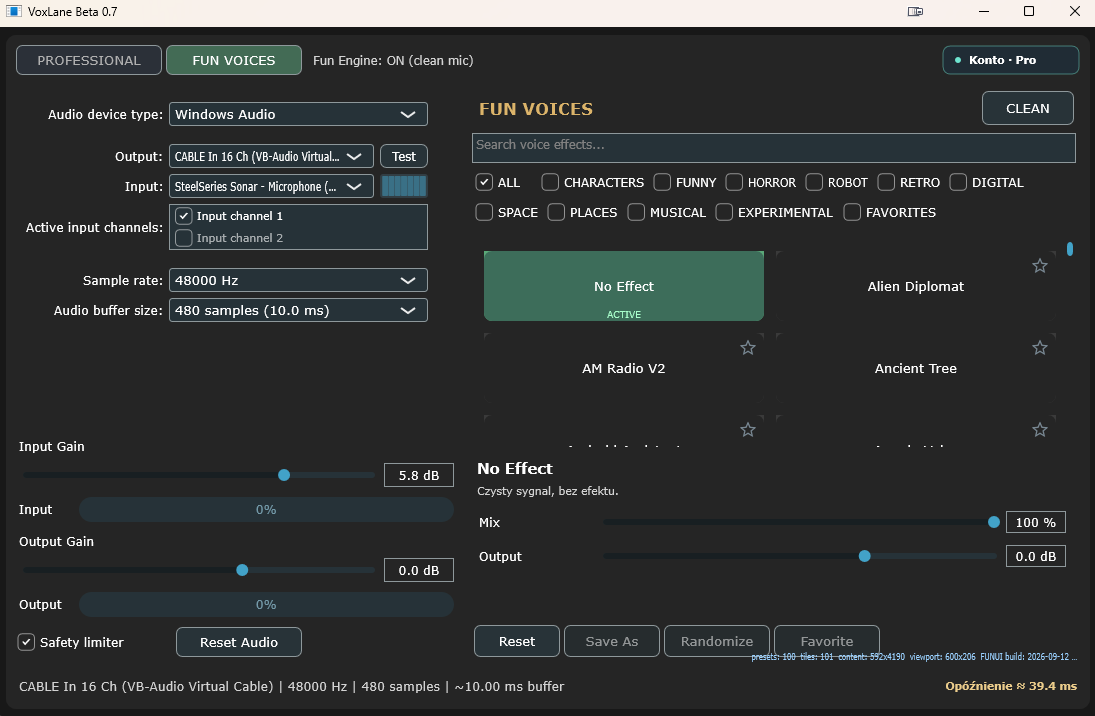
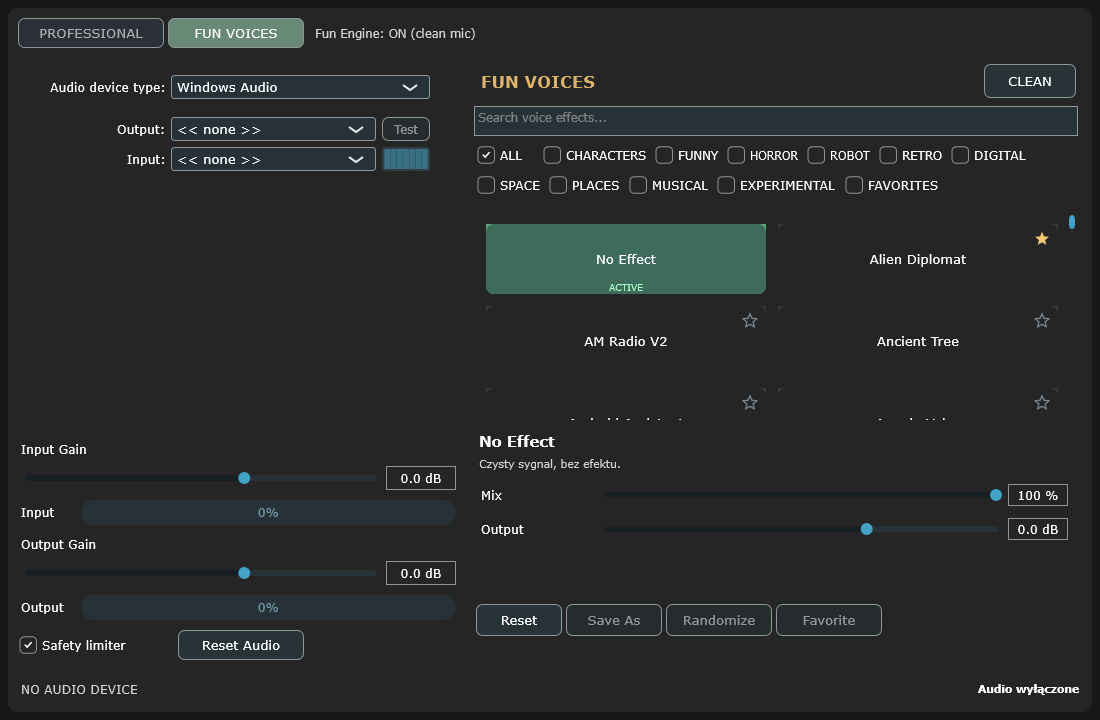
Make full offline VoxLane 0.7 the main download

diff --git a/docs/index.html b/docs/index.html
@@ -1,6 +1,6 @@
 <!doctype html>
-<html lang="en"><head><meta charset="utf-8"><meta name="viewport" content="width=device-width,initial-scale=1"><title>VoxLane</title><link rel="stylesheet" href="account/style.css"></head>
-<body><main><small>VOXLANE / BETA 0.7</small><h1 id="title">Your voice. Your sound.</h1><p id="intro">Real-time microphone processing for Windows. VST3 plugins, built-in processors and 100 Fun Voices.</p><p id="routing">Use a virtual audio cable to send your sound to Discord, OBS and games.</p><p id="price">Pro · PLN 25 once. Real payments via Stripe.</p><p><a id="account" href="account/">VoxLane account</a></p><p><a id="github" href="https://github.com/Reekksio/VST-MIC-HOST-VoxLane-/releases/tag/v0.7">Downloads and documentation</a></p><footer>VoxLane Beta 0.7</footer></main><script>
-const lang=navigator.language.toLowerCase().startsWith('pl')?'pl':'en';document.documentElement.lang=lang;document.querySelector('#account').href='account/?lang='+lang;
-if(lang==='pl'){for(const [id,value]of Object.entries({title:'Twój głos. Twoje brzmienie.',intro:'Przetwarzanie mikrofonu na żywo w Windows. Wtyczki VST3, wbudowane procesory i 100 Fun Voices.',routing:'Przekaż dźwięk przez wirtualny kabel do Discorda, OBS i gier.',price:'Pro · 25 zł jednorazowo. Prawdziwe płatności przez Stripe.',account:'Konto VoxLane',github:'Pobieranie i dokumentacja'}))document.getElementById(id).textContent=value;}
+<html lang="en"><head><meta charset="utf-8"><meta name="viewport" content="width=device-width,initial-scale=1"><title>VoxLane — microphone processing for Windows</title><link rel="stylesheet" href="account/style.css"></head>
+<body><main><small>VOXLANE / BETA 0.7</small><h1 id="title">Your voice. Your sound.</h1><p id="intro">Real-time microphone processing for Windows. VST3 plugins, 28 built-in processors and 100 Fun Voices.</p><p id="access">All audio features included. No account, payment or activation required.</p><p id="routing">Use a virtual audio cable to send your sound to Discord, OBS and games.</p><p><a id="download" href="https://github.com/Reekksio/VST-MIC-HOST-VoxLane-/releases/download/v0.7.0/VoxLane-Beta-0.7.zip">Download VoxLane Beta 0.7</a></p><p><a id="github" href="https://github.com/Reekksio/VST-MIC-HOST-VoxLane-/releases/latest">Release notes and documentation</a></p><details><summary id="showcase">Account & Payments Showcase</summary><p id="demo">An archived integration build demonstrating authentication, persistent sessions and Stripe Checkout.</p><a id="demo-link" href="https://github.com/Reekksio/VST-MIC-HOST-VoxLane-/releases/tag/v0.7">View showcase edition</a></details><footer>VoxLane Beta 0.7</footer></main><script>
+const lang=navigator.language.toLowerCase().startsWith('pl')?'pl':'en';document.documentElement.lang=lang;
+if(lang==='pl'){for(const [id,value]of Object.entries({title:'Twój głos. Twoje brzmienie.',intro:'Przetwarzanie mikrofonu na żywo w Windows. Wtyczki VST3, 28 wbudowanych procesorów i 100 Fun Voices.',access:'Wszystkie funkcje audio w zestawie. Bez konta, płatności i aktywacji.',routing:'Przekaż dźwięk przez wirtualny kabel do Discorda, OBS i gier.',download:'Pobierz VoxLane Beta 0.7',github:'Opis wydania i dokumentacja',showcase:'Prezentacja integracji kont i płatności',demo:'Archiwalna wersja prezentująca logowanie, zapamiętywanie sesji i integrację Stripe Checkout.','demo-link':'Zobacz wersję demonstracyjną'}))document.getElementById(id).textContent=value;}
 </script></body></html>

diff --git a/README.md b/README.md
@@ -1,28 +1,16 @@
 # VoxLane — Beta 0.7
 
-VoxLane is a portable real-time VST3 microphone host and audio processor for Windows, built with C++ and JUCE.
-
-Process your microphone with external VST3 plugins, VoxLane's built-in processors or 100 Fun Voices, then send it to your chosen output or a virtual audio cable.
+VoxLane is a portable real-time microphone processor for Windows, built with C++ and JUCE. Use external VST3 plugins, built-in VoxLane processors or Fun Voices, then send your sound to an audio output, Discord, OBS or games through a virtual audio cable.
 
 ## Download
 
-[Download VoxLane Beta 0.7](https://github.com/Reekksio/VST-MIC-HOST-VoxLane-/releases/download/v0.7/VoxLane-Beta-0.7.zip) · [Release notes](https://github.com/Reekksio/VST-MIC-HOST-VoxLane-/releases/tag/v0.7)
+**[Download VoxLane Beta 0.7](https://github.com/Reekksio/VST-MIC-HOST-VoxLane-/releases/download/v0.7.0/VoxLane-Beta-0.7.zip)** · [Release notes](https://github.com/Reekksio/VST-MIC-HOST-VoxLane-/releases/latest)
 
-Extract the ZIP and run **VST Mic Host Beta.exe**. Keep `VSTScanner.exe`, `voxlane-public.json` and `ThirdParty` beside it. No installation is required.
+Extract the ZIP and run **VoxLane Beta 0.7.exe**. Keep `VSTScanner.exe` and `ThirdParty` beside it. No installation is required.
 
-An account and an internet connection are required to sign in and verify Pro access. Sign in once; the session is saved in Windows Credential Manager without storing your password.
+**All audio features are included. No account, payment, activation or internet connection is required to use VoxLane.**
 
-## Free and Pro
-
-**VoxLane Pro costs PLN 25 once and is linked to your account. There is no subscription. This release uses real Stripe payments.** Buy Pro from Account in the app; access refreshes automatically after payment verification.
-
-- Free: external VST3 hosting, safety limiter, Compressor, High Pass, Low Pass, Parametric EQ, Low Shelf, High Shelf and Noise Gate.
-- Pro: the remaining VoxLane built-in plugins, editable Fun Voice macros and custom User voice presets.
-- All accounts can use the 100 factory Fun Voices with their standard settings.
-
-Test purchases and live purchases have separate entitlements. A sandbox purchase does not unlock this live release.
-
-## Screenshot
+## Screenshots
 
 ![VoxLane Professional](assets/voxlane.png)
 
@@ -30,37 +18,39 @@ Test purchases and live purchases have separate entitlements. A sandbox purchase
 
 ## Features
 
-- VST3 scanning, plugin editors, reordering and bypass
-- 28 visible VoxLane built-in plugins with their own editors
-- 100 Fun Voices in 10 categories; search and favourites
-- A/B comparison, Undo/Redo and reset in built-in plugin editors
-- Actual compressor gain-reduction metering
-- Favourite plugins and a VoxLane-only filter
-- Microphone/output selection, sample rate, buffer size and gain controls
-- Preset saving/loading and a safety limiter
-- Automatic device reconnection; None remains selected when chosen
-- Approximate audio latency display
-- Polish and English account interface
-- Close to Windows tray; double-click the tray icon to reopen
-- Optional start with Windows
+- External VST3 hosting, scanning, plugin editors, reordering and bypass.
+- 28 built-in VoxLane processors with dedicated editors and full parameter access.
+- 100 Fun Voices in 10 categories, adjustable effect controls, randomization and custom voice presets.
+- A/B comparison, Undo/Redo, preset saving and loading.
+- Favourite plugins and voices, search and a VoxLane-only filter.
+- Compressor gain-reduction metering, input/output meters and a safety limiter.
+- Device selection, sample rate, buffer size, gain controls and audio latency display.
+- Automatic audio reconnection, close to Windows tray and optional startup with Windows.
 
-Fun Voices starts at **CLEAN / No Effect**. Pitch/formant and layered-voice processing add algorithmic latency; total latency also depends on the device buffer and plugin chain.
+Fun Voices starts at **CLEAN / No Effect**. Pitch/formant and layered effects add processing latency; total latency also depends on the audio device and plugin chain.
 
-## Discord, OBS and other applications
+## Discord, OBS and games
 
 Use a virtual audio cable such as [VB-CABLE](https://vb-audio.com/Cable/):
 
 1. Select your microphone as VoxLane's input.
 2. Select **CABLE Input** as VoxLane's output.
-3. Configure your processing chain or choose a Fun Voice.
-4. Select **CABLE Output** as the microphone in Discord, OBS or another application.
+3. Configure your processing chain or select a Fun Voice.
+4. Select **CABLE Output** as the microphone in Discord, OBS or your game.
 
 `Microphone → VoxLane → VB-CABLE → Discord / OBS / Game`
 
-The device test tone tests the output directly. If it plays but your microphone is silent, check the selected microphone, its active channel and VoxLane's **Mute** control.
+If the output test tone works but your microphone is silent, check the selected input, active channel and **Mute** control.
 
 ## Project status
 
-VoxLane is under development. Beta 0.7 is a prerelease; report reproducible issues through GitHub Issues.
+VoxLane Beta 0.7 is under development. Please report reproducible issues through [GitHub Issues](https://github.com/Reekksio/VST-MIC-HOST-VoxLane-/issues).
 
-This repository contains downloads, screenshots and the public account website. The [VoxLane 0.5 source edition](https://github.com/Reekksio/VST-MIC-HOST-VoxLane-/tree/legacy-0.5) is publicly available, with [source code and Windows binaries in its release](https://github.com/Reekksio/VST-MIC-HOST-VoxLane-/releases/tag/v0.5.0). Beta 0.7 source code remains private.
+The [VoxLane 0.5 source edition](https://github.com/Reekksio/VST-MIC-HOST-VoxLane-/tree/legacy-0.5) remains publicly available. Beta 0.7 application source is private.
+
+<details>
+<summary>Account & Payments Showcase</summary>
+
+An [archived integration build](https://github.com/Reekksio/VST-MIC-HOST-VoxLane-/releases/tag/v0.7) demonstrates Supabase authentication, persistent sessions, Stripe Checkout and account-based access management. This is a separate showcase edition; the standard download above includes all audio features without accounts or purchases.
+
+</details>
